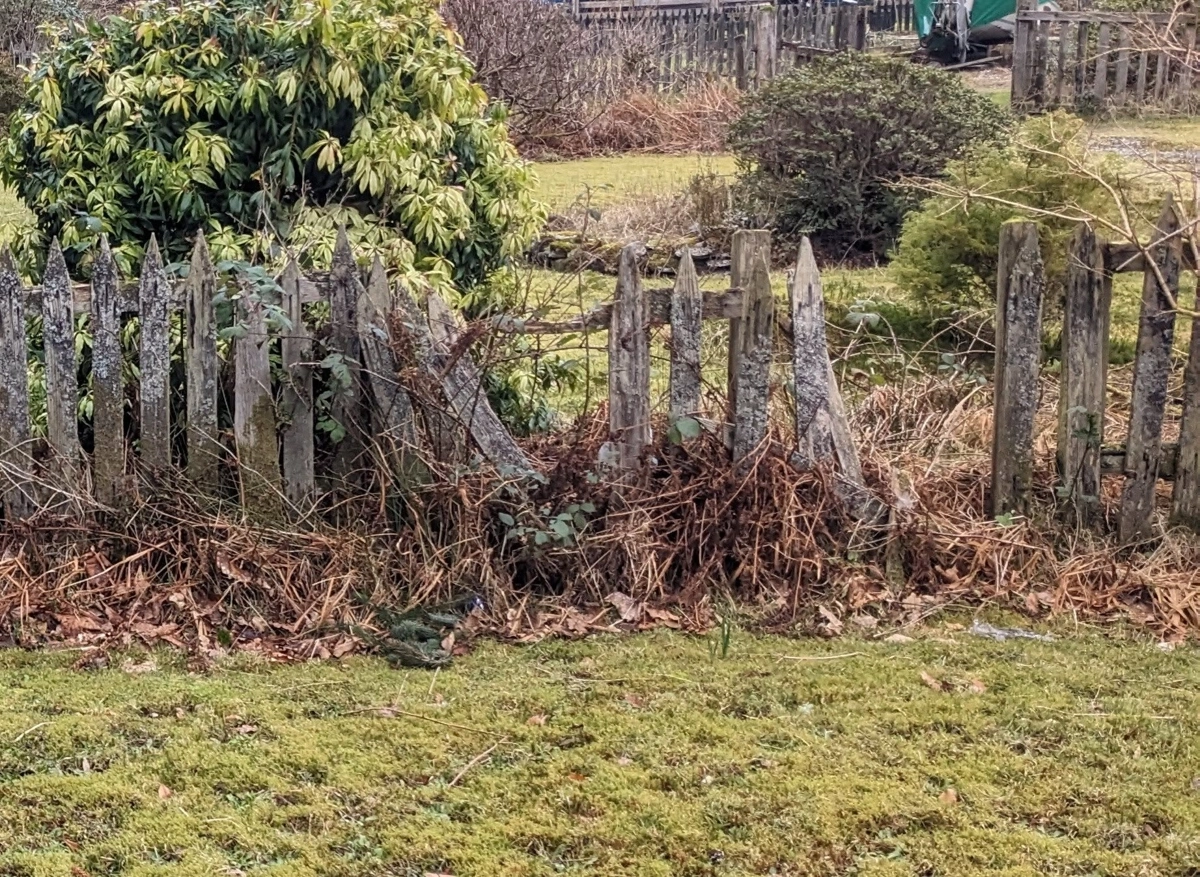
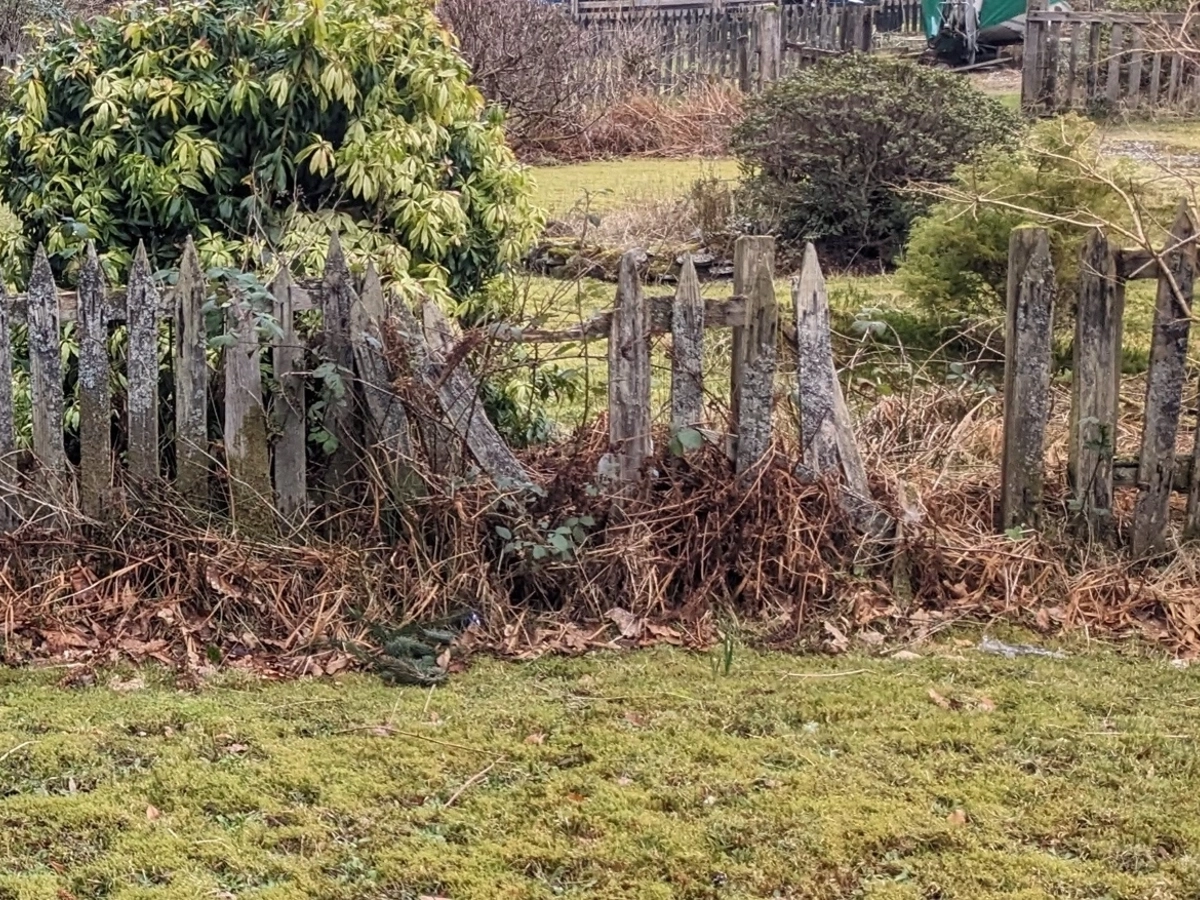
re-sized images for mobile

diff --git a/src/app/components/ModernCarousel.tsx b/src/app/components/ModernCarousel.tsx
@@ -5,27 +5,43 @@ import { AnimatePresence, motion } from "framer-motion";
 import Image from "next/image"; // Next.js optimized images
 
 const images = [
-  { src: "/images/3-before.webp", id: 1 },
-  { src: "/images/3-after.webp", id: 2 },
-  { src: "/images/2-before.webp", id: 3 },
-  { src: "/images/2-after.webp", id: 4 },
-  { src: "/images/1-before.webp", id: 5 },
-  { src: "/images/1-after.webp", id: 6 },
+  { src: "/images/3-before.webp", mobileSrc: "/images/3-before-small.webp", id: 1 },
+  { src: "/images/3-after.webp", mobileSrc: "/images/3-after-small.webp", id: 2 },
+  { src: "/images/2-before.webp", mobileSrc: "/images/2-before-small.webp", id: 3 },
+  { src: "/images/2-after.webp", mobileSrc: "/images/2-after-small.webp", id: 4 },
+  { src: "/images/1-before.webp", mobileSrc: "/images/1-before-small.webp", id: 5 },
+  { src: "/images/1-after.webp", mobileSrc: "/images/1-after-small.webp", id: 6 },
 ];
 
 export default function ModernCarousel() {
   const [idx, setIdx] = useState(0);
+  const [isMobile, setIsMobile] = useState(false);
+
+  // Detect if the screen is mobile
+  useEffect(() => {
+    const checkScreenSize = () => setIsMobile(window.innerWidth < 640);
+
+    if (typeof window !== "undefined") {
+      checkScreenSize(); // Run on mount
+      window.addEventListener("resize", checkScreenSize);
+    }
+
+    return () => window.removeEventListener("resize", checkScreenSize);
+  }, []);
+
+  // Preload next image safely
+  useEffect(() => {
+    if (typeof window !== "undefined") {
+      const nextImg = document.createElement("img"); // ✅ Safe alternative to new Image()
+      nextImg.src = isMobile
+        ? images[(idx + 1) % images.length].mobileSrc
+        : images[(idx + 1) % images.length].src;
+    }
+  }, [idx, isMobile]);
 
   const handleNextImage = () => {
-    setIdx((prevIdx) => (prevIdx + 1) % images.length); // Move forward sequentially
+    setIdx((prevIdx) => (prevIdx + 1) % images.length);
   };
-
-  useEffect(() => {
-    if (typeof window !== "undefined") { // ✅ Ensure it runs only on the client
-      const nextImage = document.createElement("img"); // ✅ Safe alternative
-      nextImage.src = images[(idx + 1) % images.length].src; // Preload next image
-    }
-  }, [idx]);
 
   return (
     <div
@@ -41,14 +57,16 @@ export default function ModernCarousel() {
           transition={{ duration: 0.3 }}
           className="absolute w-full h-full rounded-lg overflow-hidden"
         >
+          {/* Dynamically choose mobile or desktop image */}
           <Image
-            src={images[idx].src}
+            src={isMobile ? images[idx].mobileSrc : images[idx].src}
             alt={`Image ${idx + 1}`}
             fill
             style={{ objectFit: "cover" }}
             priority
             loading="eager"
           />
+
           {/* Badge to indicate Before/After */}
           <span className="absolute top-3 left-1/2 transform -translate-x-1/2 px-4 py-2 text-sm font-semibold rounded-md backdrop-blur-md shadow-lg bg-black text-white">
             {idx % 2 === 0 ? "Before" : "After"}
